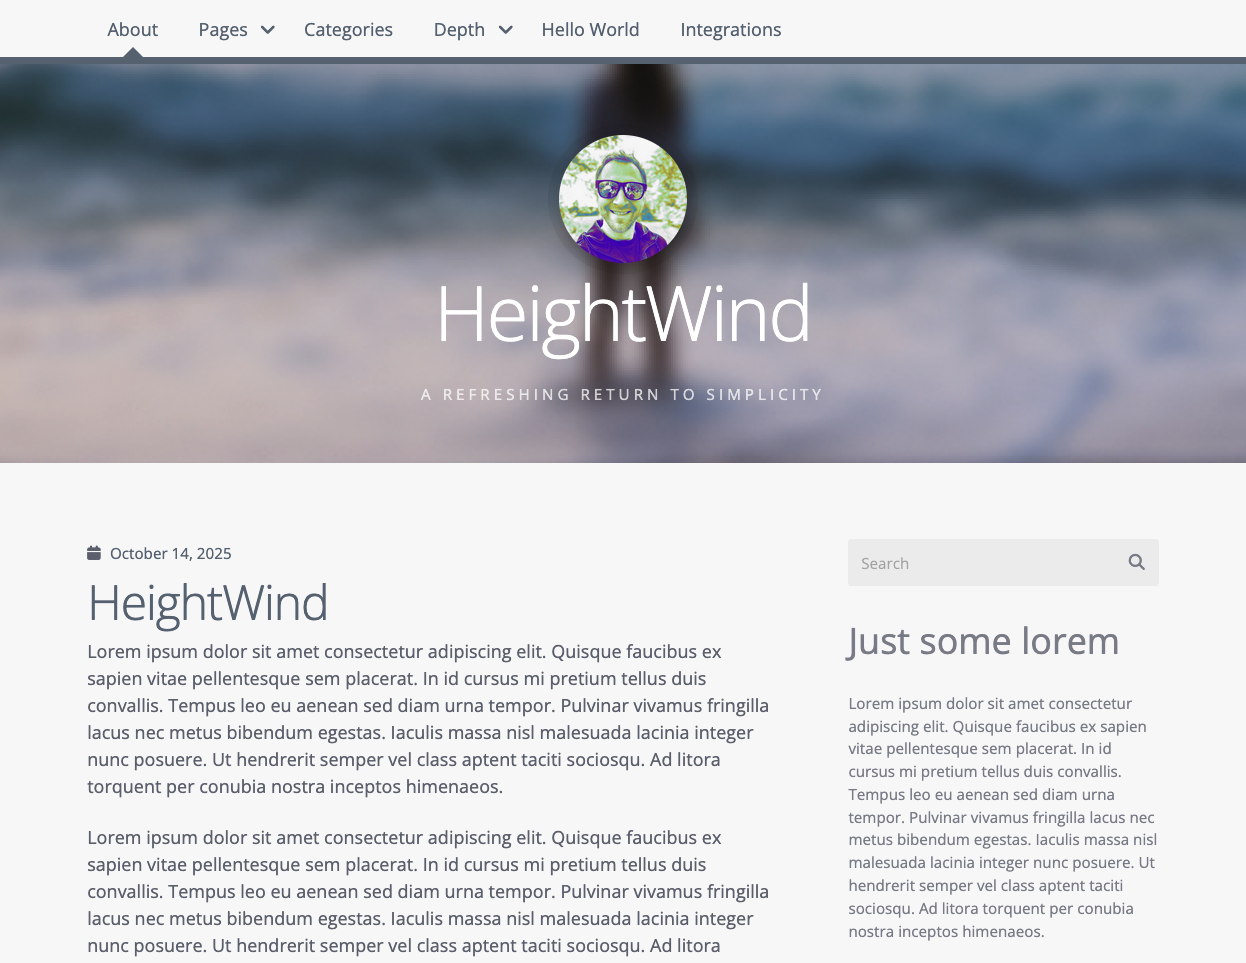
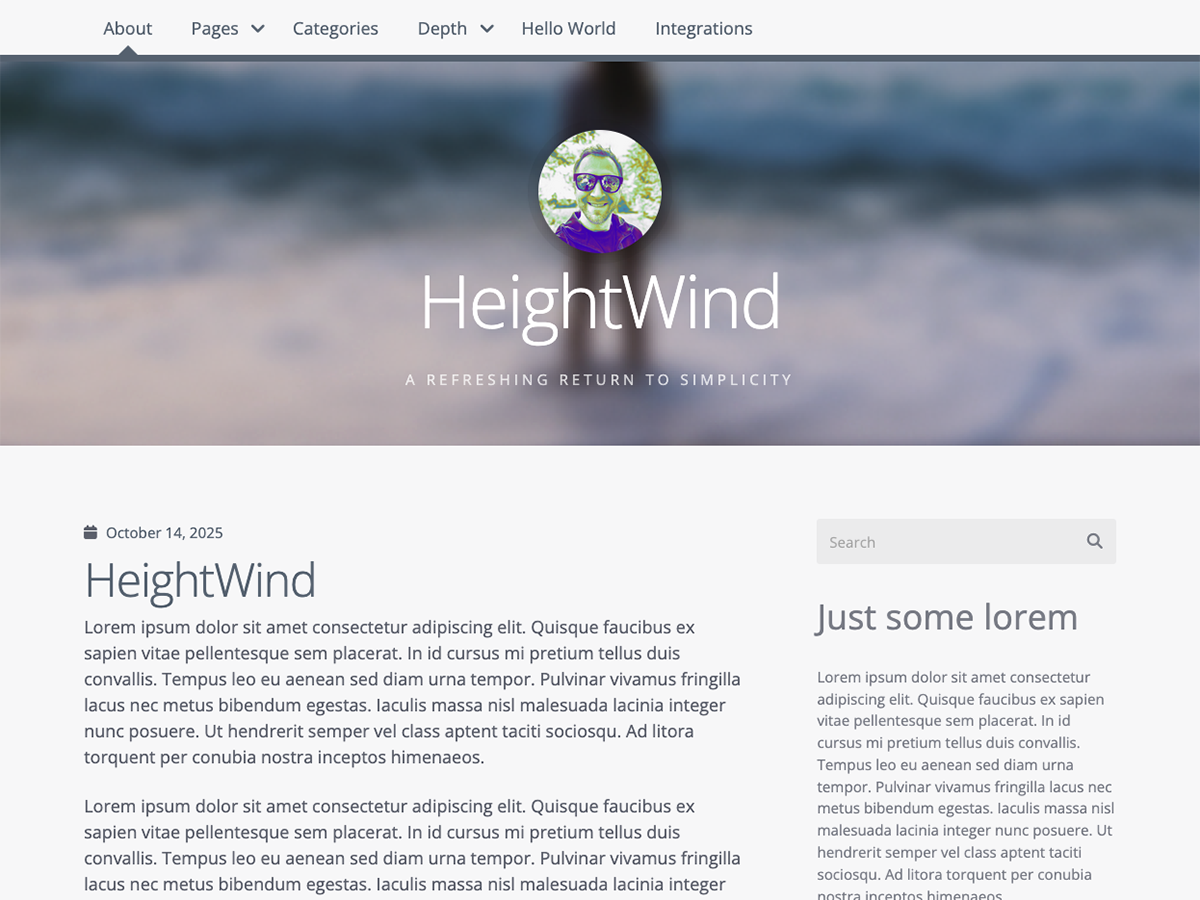
#13 Fixed an issue with links not being underlined; resolved issue with incorrect screenshot size.

diff --git a/style.css b/style.css
@@ -2286,6 +2286,33 @@ a.more-link {
 }
 
 /**
+ * Content Links - Accessibility Requirement
+ * Links within content must be underlined to be distinguishable
+ * @see https://make.wordpress.org/themes/handbook/review/required/#3-accessibility
+ */
+.article-content a:not(.wp-block-button__link):not(.button),
+.entry-content a:not(.wp-block-button__link):not(.button),
+.comment-content a:not(.wp-block-button__link):not(.button),
+.widget_text a:not(.wp-block-button__link):not(.button),
+.wp-block-text a:not(.wp-block-button__link):not(.button),
+.textwidget a:not(.wp-block-button__link):not(.button) {
+  text-decoration: underline;
+}
+.article-content a:not(.wp-block-button__link):not(.button):hover, .article-content a:not(.wp-block-button__link):not(.button):focus,
+.entry-content a:not(.wp-block-button__link):not(.button):hover,
+.entry-content a:not(.wp-block-button__link):not(.button):focus,
+.comment-content a:not(.wp-block-button__link):not(.button):hover,
+.comment-content a:not(.wp-block-button__link):not(.button):focus,
+.widget_text a:not(.wp-block-button__link):not(.button):hover,
+.widget_text a:not(.wp-block-button__link):not(.button):focus,
+.wp-block-text a:not(.wp-block-button__link):not(.button):hover,
+.wp-block-text a:not(.wp-block-button__link):not(.button):focus,
+.textwidget a:not(.wp-block-button__link):not(.button):hover,
+.textwidget a:not(.wp-block-button__link):not(.button):focus {
+  text-decoration: none;
+}
+
+/**
  * Forms
  */
 input[type=text], input[type=password], input[type=email], input[type=search], input.input-text, textarea {

diff --git a/block-editor-style.css b/block-editor-style.css
@@ -53,15 +53,26 @@
 	font-size: 0.889rem;
 }
 
-/* Links */
+/* Links - Content links must be underlined for accessibility */
 .editor-styles-wrapper a {
 	color: #0073aa;
+	text-decoration: underline;
+}
+
+.editor-styles-wrapper a:hover,
+.editor-styles-wrapper a:focus {
+	color: #333;
 	text-decoration: none;
 }
 
-.editor-styles-wrapper a:hover {
-	color: #333;
-	text-decoration: underline;
+/* Exclude buttons from underline */
+.editor-styles-wrapper a.wp-block-button__link {
+	text-decoration: none;
+}
+
+.editor-styles-wrapper a.wp-block-button__link:hover,
+.editor-styles-wrapper a.wp-block-button__link:focus {
+	text-decoration: none;
 }
 
 /* Lists */

diff --git a/style.scss b/style.scss
@@ -265,6 +265,27 @@ a.more-link {
 	font-weight: 700;
 }
 
+/**
+ * Content Links - Accessibility Requirement
+ * Links within content must be underlined to be distinguishable
+ * @see https://make.wordpress.org/themes/handbook/review/required/#3-accessibility
+ */
+.article-content,
+.entry-content,
+.comment-content,
+.widget_text,
+.wp-block-text,
+.textwidget {
+	a:not(.wp-block-button__link):not(.button) {
+		text-decoration: underline;
+
+		&:hover,
+		&:focus {
+			text-decoration: none;
+		}
+	}
+}
+
 
 /**
  * Forms
